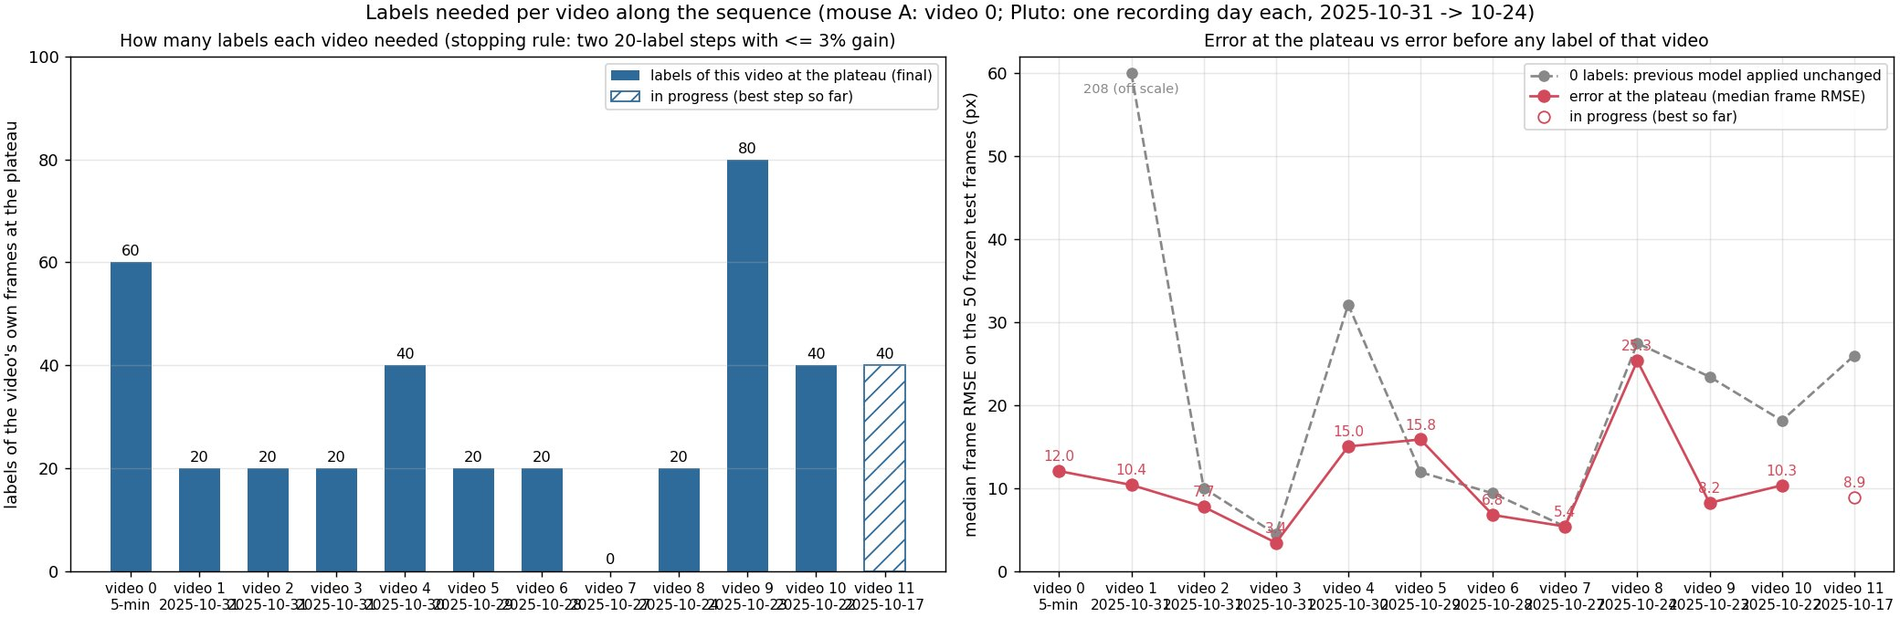
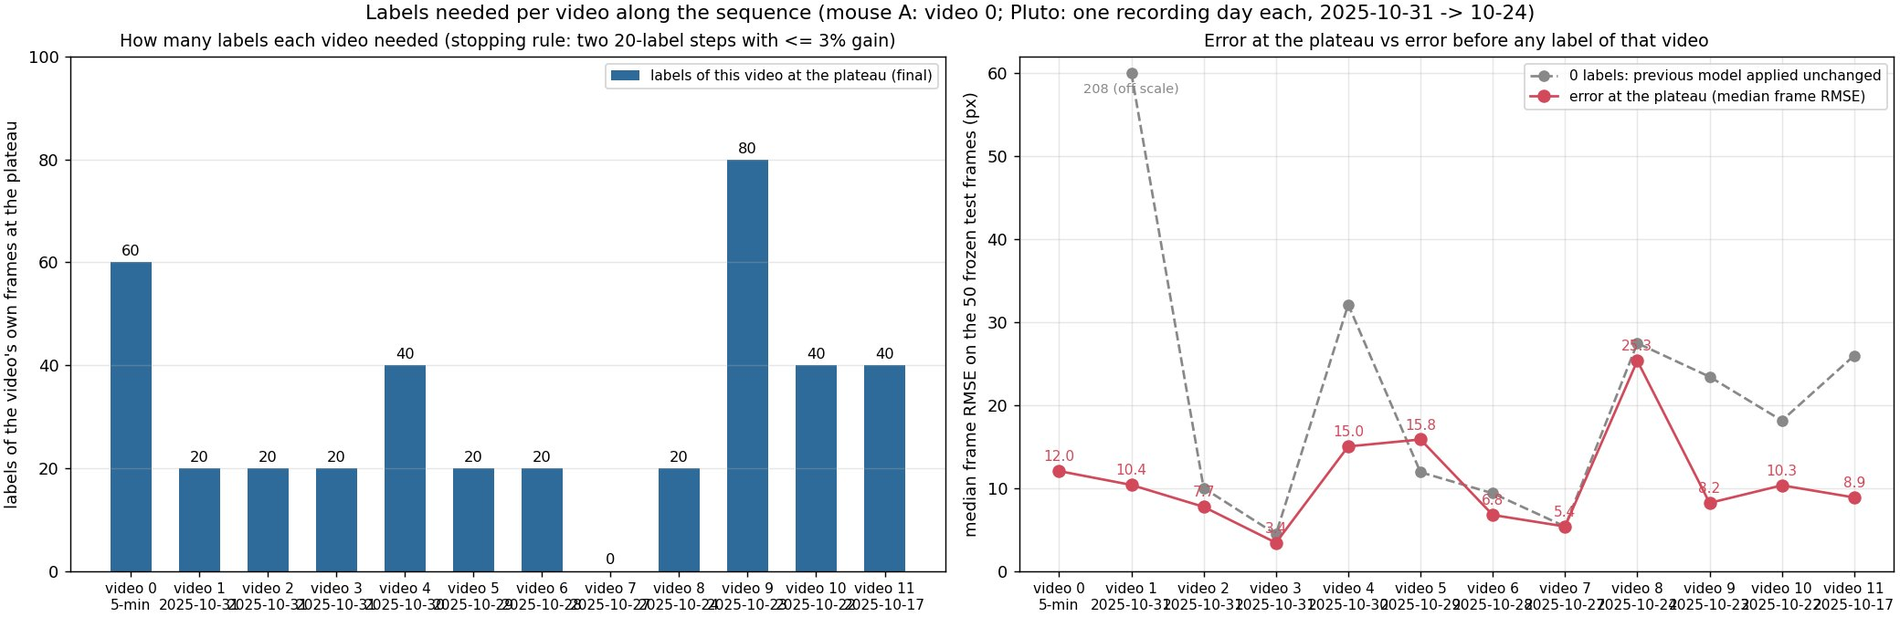
Video 11 (Terra) finished: plateau at 40 labels, 8.86 px (rule fired at 80; user decision 2026-10-04); 40 labels carried into video 12, whose test / val / batch01 frames are extracted; page step 4 ties the definitions to numbered figures
Claude-Session: https://claude.ai/code/session_017MK5SWBFFQAu8ejFk1z7fh

diff --git a/report/index.html b/report/index.html
@@ -72,7 +72,7 @@ math[display="block"]{margin:10px 0 6px;text-align:left;overflow-x:auto;max-widt
 
 <header>
   <h1><span lang="zh">小鼠眼睛关键点追踪：做了什么，结果是什么</span><span lang="en">Mouse eye keypoint tracking: what was done and what came out</span></h1>
-  <p class="muted small">Zhiheng Li (University of Minnesota), Kaiwen Sheng (Stanford) · <span lang="zh">页面生成时间</span><span lang="en">page built</span> 2026-10-04 12:38 · <a href="https://github.com/ZhihengLi0/mouse-behavior-tracking">GitHub: ZhihengLi0/mouse-behavior-tracking</a></p>
+  <p class="muted small">Zhiheng Li (University of Minnesota), Kaiwen Sheng (Stanford) · <span lang="zh">页面生成时间</span><span lang="en">page built</span> 2026-10-04 12:41 · <a href="https://github.com/ZhihengLi0/mouse-behavior-tracking">GitHub: ZhihengLi0/mouse-behavior-tracking</a></p>
 
   <div class="text" lang="zh">
     <p><b>任务：</b>用 DeepLabCut 在小鼠眼睛视频的每一帧上找 8 个点：瞳孔上、下、左、右，上眼睑、下眼睑，鼻侧眼角、颞侧眼角。由这 8 个点得到瞳孔大小、眼睛睁开程度和眨眼，之后与脑记录对齐。</p>
@@ -97,7 +97,7 @@ math[display="block"]{margin:10px 0 6px;text-align:left;overflow-x:auto;max-widt
       <li><b>加入新视频会不会让旧视频变差？</b>不会（第 7 步）。</li>
       <li><b>瞳孔面积怎么算？</b>按 9 月 20 日明确的定义，瞳孔四个点都是椭圆端点，用四个点算的面积误差约为三点法的一半（第 8 步）。</li>
     </ol>
-    <p><b>进度：</b>已完成 11 个视频（视频 0–10）；视频 11 进行中，按 0 / 20 / 40 / … 帧的误差为 25.96 / 9.24 / 8.86 / 8.77 / 8.65 px。</p>
+    <p><b>进度：</b>已完成 12 个视频（视频 0–11）。</p>
   </div>
   <div class="text" lang="en">
     <p><b>Task:</b> DeepLabCut finds 8 points on every frame of a mouse-eye video: pupil top, bottom, left, right; upper and lower eyelid; nasal and temporal eye corner. From these we get pupil size, eye opening and blinks, to be aligned with brain recordings later.</p>
@@ -122,7 +122,7 @@ math[display="block"]{margin:10px 0 6px;text-align:left;overflow-x:auto;max-widt
       <li><b>Do new videos make old ones worse?</b> No (step 7).</li>
       <li><b>How to compute the pupil area?</b> Under the definitions made explicit on 2026-09-20 all four pupil points are ellipse endpoints, and the 4-point area has about half the error of the 3-point rule (step 8).</li>
     </ol>
-    <p><b>Status:</b> 11 videos finished (videos 0–10); video 11 in progress, error at 0 / 20 / 40 / … labels: 25.96 / 9.24 / 8.86 / 8.77 / 8.65 px.</p>
+    <p><b>Status:</b> 12 videos finished (videos 0–11).</p>
   </div>
 
   <div class="text" lang="zh">
@@ -278,37 +278,37 @@ math[display="block"]{margin:10px 0 6px;text-align:left;overflow-x:auto;max-widt
   <div class="text" lang="zh">
     <p><span class="tag">做了什么：</span>把 8 个点各自标在哪里写清楚，并按新的写法把之前的视频全部重新标注。从这一步起所有模型和数字都用这套定义。完整的定义、例图和容易标错的地方在仓库的 <code>keypoint_definitions/</code> 文件夹里。</p>
     <ul>
-      <li><b>瞳孔上、下、左、右：</b>把瞳孔看作一个椭圆，四个点是椭圆两条轴的四个端点。被上眼睑或毛挡住的部分按椭圆补全，所以瞳孔上点常常落在上眼睑点的上方，也就是标在被眼睑盖住的位置上。瞳孔边界取变暗区域的外缘；边界出现两层轮廓时取左边那层（9 月 26 日）；黑色核心外面较亮的一圈也算瞳孔（9 月 29 日）。</li>
-      <li><b>上眼睑、下眼睑：</b>眼皮和眼球的分界线叫睑缘。上眼睑点是上睑缘的中点，下眼睑点是下睑缘的中点。</li>
+      <li><b>瞳孔上、下、左、右（图 4-2）：</b>把瞳孔看作一个椭圆，四个点是椭圆两条轴的四个端点。被上眼睑或毛挡住的部分按椭圆补全，所以瞳孔上点常常落在上眼睑点的上方，也就是标在被眼睑盖住的位置上。图 4-2 里红点是正确位置；黄色叉是不取的错误位置：沿着看得见的瞳孔边缘标，上点停在眼睑边上。瞳孔边界取变暗区域的外缘；边界出现两层轮廓时取左边那层（9 月 26 日）；黑色核心外面较亮的一圈也算瞳孔（9 月 29 日）。</li>
+      <li><b>上眼睑、下眼睑（图 4-1）：</b>眼皮和眼球的分界线叫睑缘。上眼睑点是上睑缘的中点，下眼睑点是下睑缘的中点。</li>
       <li><b>看不清的点：</b>所有 8 个点都一样，看得清楚就标；不能准确判断位置时，这个点留空不标。</li>
-      <li><b>左眼角（鼻侧，内眦）：</b>把左下方的睑缘和上睑缘各自延长，取两条延长线的交点；延长线取外侧、没有阴影的那条边。</li>
-      <li><b>右眼角（颞侧，外眦）：</b>右侧有几条反光亮带。把下睑缘沿外层那条线向上延伸，与上睑缘相交的点就是眼角，它在反光的右侧。不标在反光上，也不标在紧挨反光的内层线上。</li>
+      <li><b>左眼角（鼻侧，内眦；图 4-3 中间一幅）：</b>把左下方的睑缘和上睑缘各自延长（图中红色虚线），取两条延长线的交点（红圈），青色点是标注的位置。延长线取外侧、没有阴影的那条边。图中黄色叉是不取的错误位置：标在深色部分结束的地方，两条睑缘没有延长到相交。</li>
+      <li><b>右眼角（颞侧，外眦；图 4-3 右边一幅）：</b>右侧有几条反光亮带。把下睑缘沿外层那条线向上延伸（图中红色虚线），与上睑缘相交的点（红圈）就是眼角，它在反光的右侧，青色点是标注的位置。图中黄色叉是不取的错误位置：标在紧挨反光的内层线上。也不标在反光亮带上。</li>
     </ul>
   </div>
   <div class="text" lang="en">
     <p><span class="tag">What was done:</span>Where each of the 8 points is placed was written down, and all earlier videos were relabeled accordingly. From this step on every model and number uses these definitions. The full definitions, example figures and the common mistakes are in the folder <code>keypoint_definitions/</code> of the repository.</p>
     <ul>
-      <li><b>Pupil top, bottom, left, right:</b> the pupil is treated as an ellipse and the four points are the ends of its two axes. Parts hidden by the upper eyelid or by fur are completed with the ellipse, so the pupil-top point often lies above the upper-eyelid point, that is, at a position covered by the lid. The pupil boundary is the outer edge of the darkened region; where the edge looks doubled the left contour is used (2026-09-26); the brighter band around the dark core counts as pupil (2026-09-29).</li>
-      <li><b>Upper and lower eyelid:</b> the line between the eyelid skin and the eyeball is the eyelid margin. The upper-eyelid point is the midpoint of the upper margin, the lower-eyelid point the midpoint of the lower margin.</li>
+      <li><b>Pupil top, bottom, left, right (Fig. 4-2):</b> the pupil is treated as an ellipse and the four points are the ends of its two axes. Parts hidden by the upper eyelid or by fur are completed with the ellipse, so the pupil-top point often lies above the upper-eyelid point, that is, at a position covered by the lid. In Fig. 4-2 the red dots are the correct positions; the yellow crosses are the wrong placement that is not used: along the visible pupil edge, with the top point stopping at the eyelid. The pupil boundary is the outer edge of the darkened region; where the edge looks doubled the left contour is used (2026-09-26); the brighter band around the dark core counts as pupil (2026-09-29).</li>
+      <li><b>Upper and lower eyelid (Fig. 4-1):</b> the line between the eyelid skin and the eyeball is the eyelid margin. The upper-eyelid point is the midpoint of the upper margin, the lower-eyelid point the midpoint of the lower margin.</li>
       <li><b>Points that cannot be seen:</b> the same for all 8 points: a point is labeled when it can be seen clearly and left empty when its position cannot be judged accurately.</li>
-      <li><b>Left corner (nasal, medial canthus):</b> the lower-left margin and the upper margin are each continued, and the corner is where the two continuations cross; the continuation follows the outer edge, the one without the shadow.</li>
-      <li><b>Right corner (temporal, lateral canthus):</b> there are several bright reflections on this side. The lower margin is continued upwards along the outer line until it meets the upper margin; that point is the corner, and it lies to the right of the reflections. It is not placed on a reflection or on the inner line next to it.</li>
+      <li><b>Left corner (nasal, medial canthus; Fig. 4-3, middle panel):</b> the lower-left margin and the upper margin are each continued (dashed red lines) and the corner is where the two continuations cross (red circle); the cyan dot is the labeled position. The continuation follows the outer edge, the one without the shadow. The yellow cross is the wrong placement that is not used: where the dark part ends, with the two margins not continued to their crossing.</li>
+      <li><b>Right corner (temporal, lateral canthus; Fig. 4-3, right panel):</b> there are several bright reflections on this side. The lower margin is continued upwards along the outer line (dashed red line) until it meets the upper margin (red circle); that point is the corner, to the right of the reflections, and the cyan dot is the labeled position. The yellow cross is the wrong placement that is not used: on the inner line next to the reflection. The corner is not placed on a reflection either.</li>
     </ul>
   </div>
   <figure>
     <div class="figbox"><img src="assets/kp_all_keypoints.jpg" alt="All eight keypoints on three mice"></div>
-    <figcaption lang="zh"><span class="tag">怎么看：</span>三只老鼠各一帧人工标注。红点是瞳孔的四个点，红线是过这四个点的椭圆；青色点是上下眼睑和两个眼角。图像为了看清做了提亮。</figcaption>
-    <figcaption lang="en"><span class="tag">How to read:</span>One human-labeled frame of each of the three mice. Red dots are the four pupil points and the red line is the ellipse through them; cyan dots are the two eyelid points and the two corners. The frames are brightened for display.</figcaption>
+    <figcaption lang="zh"><b>图 4-1</b>　<span class="tag">怎么看：</span>三只老鼠各一帧人工标注。红点是瞳孔的四个点，红线是过这四个点的椭圆；青色点是上下眼睑和两个眼角。图像为了看清做了提亮。</figcaption>
+    <figcaption lang="en"><b>Fig. 4-1.</b> <span class="tag">How to read:</span>One human-labeled frame of each of the three mice. Red dots are the four pupil points and the red line is the ellipse through them; cyan dots are the two eyelid points and the two corners. The frames are brightened for display.</figcaption>
   </figure>
   <figure>
     <div class="figbox"><img src="assets/kp_construction_pupil.jpg" alt="How the pupil points are constructed"></div>
-    <figcaption lang="zh"><span class="tag">怎么看：</span>瞳孔四个点怎么来。红色椭圆盖住整个瞳孔，红色虚线是它的两条轴，四个点是轴的端点。黄色叉和黄色虚线是 9 月 20 日之前的标法：沿着看得见的瞳孔边缘标，上点停在眼睑边上。</figcaption>
-    <figcaption lang="en"><span class="tag">How to read:</span>How the four pupil points are obtained. The red ellipse covers the whole pupil, the dashed red lines are its two axes, and the four points are the ends of the axes. Yellow crosses and the dashed yellow outline show the placement before 2026-09-20: along the visible pupil edge, with the top point stopping at the eyelid.</figcaption>
+    <figcaption lang="zh"><b>图 4-2</b>　<span class="tag">怎么看：</span>瞳孔四个点怎么来。红色椭圆盖住整个瞳孔，红色虚线是它的两条轴，四个点是轴的端点。黄色叉和黄色虚线是 9 月 20 日之前的标法：沿着看得见的瞳孔边缘标，上点停在眼睑边上。</figcaption>
+    <figcaption lang="en"><b>Fig. 4-2.</b> <span class="tag">How to read:</span>How the four pupil points are obtained. The red ellipse covers the whole pupil, the dashed red lines are its two axes, and the four points are the ends of the axes. Yellow crosses and the dashed yellow outline show the placement before 2026-09-20: along the visible pupil edge, with the top point stopping at the eyelid.</figcaption>
   </figure>
   <figure>
     <div class="figbox"><img src="assets/kp_construction_corners.jpg" alt="How the two corners are constructed"></div>
-    <figcaption lang="zh"><span class="tag">怎么看：</span>两个眼角怎么来，画法照 9 月 20 日讨论时的手绘图。红色实线是沿图像描出的睑缘，红色虚线是它的延长线，红圈是交点，也就是眼角；青色点是实际标注的位置。黄色叉是当天第一次的标法，也是容易标错的位置：左边标在深色部分结束的地方，右边标在紧挨反光的内层线上。</figcaption>
-    <figcaption lang="en"><span class="tag">How to read:</span>How the two corners are obtained, drawn after the hand sketch used in the discussion of 2026-09-20. Solid red = eyelid margin traced on the image, dashed red = its continuation, red circle = the crossing, which is the corner; cyan = the labeled point. Yellow crosses are the first placement of that day and the easy mistake: on the left, where the dark part ends; on the right, on the inner line next to the reflection.</figcaption>
+    <figcaption lang="zh"><b>图 4-3</b>　<span class="tag">怎么看：</span>两个眼角怎么来，画法照 9 月 20 日讨论时的手绘图。红色实线是沿图像描出的睑缘，红色虚线是它的延长线，红圈是交点，也就是眼角；青色点是实际标注的位置。黄色叉是当天第一次的标法，也是容易标错的位置：左边标在深色部分结束的地方，右边标在紧挨反光的内层线上。</figcaption>
+    <figcaption lang="en"><b>Fig. 4-3.</b> <span class="tag">How to read:</span>How the two corners are obtained, drawn after the hand sketch used in the discussion of 2026-09-20. Solid red = eyelid margin traced on the image, dashed red = its continuation, red circle = the crossing, which is the corner; cyan = the labeled point. Yellow crosses are the first placement of that day and the easy mistake: on the left, where the dark part ends; on the right, on the inner line next to the reflection.</figcaption>
   </figure>
   <p class="text" lang="zh">定义明确前后，同一批帧上各个点移动了多少（<code>keypoint_definitions/results/label_changes.csv</code>）：</p>
   <p class="text" lang="en">How far each point moved on the same frames when the definitions were made explicit (<code>keypoint_definitions/results/label_changes.csv</code>):</p>
@@ -413,7 +413,7 @@ math[display="block"]{margin:10px 0 6px;text-align:left;overflow-x:auto;max-widt
 <tr><td>8</td><td>Pluto<br>2025-10-24</td><td>400</td><td>27.46 / 25.34 / 30.03 / 33.77</td><td><span lang="zh"><b>20 帧，25.34 px</b></span><span lang="en"><b>20 labels, 25.34 px</b></span></td><td>60</td><td>20</td></tr>
 <tr><td>9</td><td>Pluto<br>2025-10-23</td><td>420</td><td>23.41 / 10.39 / 8.55 / 8.67 / 8.20 / 9.39 / 8.63</td><td><span lang="zh"><b>80 帧，8.20 px</b></span><span lang="en"><b>80 labels, 8.20 px</b></span></td><td>120</td><td>80</td></tr>
 <tr><td>10</td><td>Pluto<br>2025-10-22</td><td>500</td><td>18.13 / 11.83 / 10.32 / 10.49 / 10.76</td><td><span lang="zh"><b>40 帧，10.32 px</b></span><span lang="en"><b>40 labels, 10.32 px</b></span></td><td>80</td><td>40</td></tr>
-<tr><td>11</td><td>Terra<br>2025-10-17</td><td>540</td><td>25.96 / 9.24 / 8.86 / 8.77 / 8.65</td><td><span lang="zh">进行中（目前最好：40 帧，8.86 px）</span><span lang="en">in progress (best so far: 40 labels, 8.86 px)</span></td><td>80</td><td>–</td></tr>
+<tr><td>11</td><td>Terra<br>2025-10-17</td><td>540</td><td>25.96 / 9.24 / 8.86 / 8.77 / 8.65</td><td><span lang="zh"><b>40 帧，8.86 px</b></span><span lang="en"><b>40 labels, 8.86 px</b></span></td><td>80</td><td>40</td></tr>
       </tbody>
     </table>
   </div>

diff --git a/report/template.html b/report/template.html
@@ -278,37 +278,37 @@ math[display="block"]{margin:10px 0 6px;text-align:left;overflow-x:auto;max-widt
   <div class="text" lang="zh">
     <p><span class="tag">做了什么：</span>把 8 个点各自标在哪里写清楚，并按新的写法把之前的视频全部重新标注。从这一步起所有模型和数字都用这套定义。完整的定义、例图和容易标错的地方在仓库的 <code>keypoint_definitions/</code> 文件夹里。</p>
     <ul>
-      <li><b>瞳孔上、下、左、右：</b>把瞳孔看作一个椭圆，四个点是椭圆两条轴的四个端点。被上眼睑或毛挡住的部分按椭圆补全，所以瞳孔上点常常落在上眼睑点的上方，也就是标在被眼睑盖住的位置上。瞳孔边界取变暗区域的外缘；边界出现两层轮廓时取左边那层（9 月 26 日）；黑色核心外面较亮的一圈也算瞳孔（9 月 29 日）。</li>
-      <li><b>上眼睑、下眼睑：</b>眼皮和眼球的分界线叫睑缘。上眼睑点是上睑缘的中点，下眼睑点是下睑缘的中点。</li>
+      <li><b>瞳孔上、下、左、右（图 4-2）：</b>把瞳孔看作一个椭圆，四个点是椭圆两条轴的四个端点。被上眼睑或毛挡住的部分按椭圆补全，所以瞳孔上点常常落在上眼睑点的上方，也就是标在被眼睑盖住的位置上。图 4-2 里红点是正确位置；黄色叉是不取的错误位置：沿着看得见的瞳孔边缘标，上点停在眼睑边上。瞳孔边界取变暗区域的外缘；边界出现两层轮廓时取左边那层（9 月 26 日）；黑色核心外面较亮的一圈也算瞳孔（9 月 29 日）。</li>
+      <li><b>上眼睑、下眼睑（图 4-1）：</b>眼皮和眼球的分界线叫睑缘。上眼睑点是上睑缘的中点，下眼睑点是下睑缘的中点。</li>
       <li><b>看不清的点：</b>所有 8 个点都一样，看得清楚就标；不能准确判断位置时，这个点留空不标。</li>
-      <li><b>左眼角（鼻侧，内眦）：</b>把左下方的睑缘和上睑缘各自延长，取两条延长线的交点；延长线取外侧、没有阴影的那条边。</li>
-      <li><b>右眼角（颞侧，外眦）：</b>右侧有几条反光亮带。把下睑缘沿外层那条线向上延伸，与上睑缘相交的点就是眼角，它在反光的右侧。不标在反光上，也不标在紧挨反光的内层线上。</li>
+      <li><b>左眼角（鼻侧，内眦；图 4-3 中间一幅）：</b>把左下方的睑缘和上睑缘各自延长（图中红色虚线），取两条延长线的交点（红圈），青色点是标注的位置。延长线取外侧、没有阴影的那条边。图中黄色叉是不取的错误位置：标在深色部分结束的地方，两条睑缘没有延长到相交。</li>
+      <li><b>右眼角（颞侧，外眦；图 4-3 右边一幅）：</b>右侧有几条反光亮带。把下睑缘沿外层那条线向上延伸（图中红色虚线），与上睑缘相交的点（红圈）就是眼角，它在反光的右侧，青色点是标注的位置。图中黄色叉是不取的错误位置：标在紧挨反光的内层线上。也不标在反光亮带上。</li>
     </ul>
   </div>
   <div class="text" lang="en">
     <p><span class="tag">What was done:</span>Where each of the 8 points is placed was written down, and all earlier videos were relabeled accordingly. From this step on every model and number uses these definitions. The full definitions, example figures and the common mistakes are in the folder <code>keypoint_definitions/</code> of the repository.</p>
     <ul>
-      <li><b>Pupil top, bottom, left, right:</b> the pupil is treated as an ellipse and the four points are the ends of its two axes. Parts hidden by the upper eyelid or by fur are completed with the ellipse, so the pupil-top point often lies above the upper-eyelid point, that is, at a position covered by the lid. The pupil boundary is the outer edge of the darkened region; where the edge looks doubled the left contour is used (2026-09-26); the brighter band around the dark core counts as pupil (2026-09-29).</li>
-      <li><b>Upper and lower eyelid:</b> the line between the eyelid skin and the eyeball is the eyelid margin. The upper-eyelid point is the midpoint of the upper margin, the lower-eyelid point the midpoint of the lower margin.</li>
+      <li><b>Pupil top, bottom, left, right (Fig. 4-2):</b> the pupil is treated as an ellipse and the four points are the ends of its two axes. Parts hidden by the upper eyelid or by fur are completed with the ellipse, so the pupil-top point often lies above the upper-eyelid point, that is, at a position covered by the lid. In Fig. 4-2 the red dots are the correct positions; the yellow crosses are the wrong placement that is not used: along the visible pupil edge, with the top point stopping at the eyelid. The pupil boundary is the outer edge of the darkened region; where the edge looks doubled the left contour is used (2026-09-26); the brighter band around the dark core counts as pupil (2026-09-29).</li>
+      <li><b>Upper and lower eyelid (Fig. 4-1):</b> the line between the eyelid skin and the eyeball is the eyelid margin. The upper-eyelid point is the midpoint of the upper margin, the lower-eyelid point the midpoint of the lower margin.</li>
       <li><b>Points that cannot be seen:</b> the same for all 8 points: a point is labeled when it can be seen clearly and left empty when its position cannot be judged accurately.</li>
-      <li><b>Left corner (nasal, medial canthus):</b> the lower-left margin and the upper margin are each continued, and the corner is where the two continuations cross; the continuation follows the outer edge, the one without the shadow.</li>
-      <li><b>Right corner (temporal, lateral canthus):</b> there are several bright reflections on this side. The lower margin is continued upwards along the outer line until it meets the upper margin; that point is the corner, and it lies to the right of the reflections. It is not placed on a reflection or on the inner line next to it.</li>
+      <li><b>Left corner (nasal, medial canthus; Fig. 4-3, middle panel):</b> the lower-left margin and the upper margin are each continued (dashed red lines) and the corner is where the two continuations cross (red circle); the cyan dot is the labeled position. The continuation follows the outer edge, the one without the shadow. The yellow cross is the wrong placement that is not used: where the dark part ends, with the two margins not continued to their crossing.</li>
+      <li><b>Right corner (temporal, lateral canthus; Fig. 4-3, right panel):</b> there are several bright reflections on this side. The lower margin is continued upwards along the outer line (dashed red line) until it meets the upper margin (red circle); that point is the corner, to the right of the reflections, and the cyan dot is the labeled position. The yellow cross is the wrong placement that is not used: on the inner line next to the reflection. The corner is not placed on a reflection either.</li>
     </ul>
   </div>
   <figure>
     <div class="figbox"><img src="assets/kp_all_keypoints.jpg" alt="All eight keypoints on three mice"></div>
-    <figcaption lang="zh"><span class="tag">怎么看：</span>三只老鼠各一帧人工标注。红点是瞳孔的四个点，红线是过这四个点的椭圆；青色点是上下眼睑和两个眼角。图像为了看清做了提亮。</figcaption>
-    <figcaption lang="en"><span class="tag">How to read:</span>One human-labeled frame of each of the three mice. Red dots are the four pupil points and the red line is the ellipse through them; cyan dots are the two eyelid points and the two corners. The frames are brightened for display.</figcaption>
+    <figcaption lang="zh"><b>图 4-1</b>　<span class="tag">怎么看：</span>三只老鼠各一帧人工标注。红点是瞳孔的四个点，红线是过这四个点的椭圆；青色点是上下眼睑和两个眼角。图像为了看清做了提亮。</figcaption>
+    <figcaption lang="en"><b>Fig. 4-1.</b> <span class="tag">How to read:</span>One human-labeled frame of each of the three mice. Red dots are the four pupil points and the red line is the ellipse through them; cyan dots are the two eyelid points and the two corners. The frames are brightened for display.</figcaption>
   </figure>
   <figure>
     <div class="figbox"><img src="assets/kp_construction_pupil.jpg" alt="How the pupil points are constructed"></div>
-    <figcaption lang="zh"><span class="tag">怎么看：</span>瞳孔四个点怎么来。红色椭圆盖住整个瞳孔，红色虚线是它的两条轴，四个点是轴的端点。黄色叉和黄色虚线是 9 月 20 日之前的标法：沿着看得见的瞳孔边缘标，上点停在眼睑边上。</figcaption>
-    <figcaption lang="en"><span class="tag">How to read:</span>How the four pupil points are obtained. The red ellipse covers the whole pupil, the dashed red lines are its two axes, and the four points are the ends of the axes. Yellow crosses and the dashed yellow outline show the placement before 2026-09-20: along the visible pupil edge, with the top point stopping at the eyelid.</figcaption>
+    <figcaption lang="zh"><b>图 4-2</b>　<span class="tag">怎么看：</span>瞳孔四个点怎么来。红色椭圆盖住整个瞳孔，红色虚线是它的两条轴，四个点是轴的端点。黄色叉和黄色虚线是 9 月 20 日之前的标法：沿着看得见的瞳孔边缘标，上点停在眼睑边上。</figcaption>
+    <figcaption lang="en"><b>Fig. 4-2.</b> <span class="tag">How to read:</span>How the four pupil points are obtained. The red ellipse covers the whole pupil, the dashed red lines are its two axes, and the four points are the ends of the axes. Yellow crosses and the dashed yellow outline show the placement before 2026-09-20: along the visible pupil edge, with the top point stopping at the eyelid.</figcaption>
   </figure>
   <figure>
     <div class="figbox"><img src="assets/kp_construction_corners.jpg" alt="How the two corners are constructed"></div>
-    <figcaption lang="zh"><span class="tag">怎么看：</span>两个眼角怎么来，画法照 9 月 20 日讨论时的手绘图。红色实线是沿图像描出的睑缘，红色虚线是它的延长线，红圈是交点，也就是眼角；青色点是实际标注的位置。黄色叉是当天第一次的标法，也是容易标错的位置：左边标在深色部分结束的地方，右边标在紧挨反光的内层线上。</figcaption>
-    <figcaption lang="en"><span class="tag">How to read:</span>How the two corners are obtained, drawn after the hand sketch used in the discussion of 2026-09-20. Solid red = eyelid margin traced on the image, dashed red = its continuation, red circle = the crossing, which is the corner; cyan = the labeled point. Yellow crosses are the first placement of that day and the easy mistake: on the left, where the dark part ends; on the right, on the inner line next to the reflection.</figcaption>
+    <figcaption lang="zh"><b>图 4-3</b>　<span class="tag">怎么看：</span>两个眼角怎么来，画法照 9 月 20 日讨论时的手绘图。红色实线是沿图像描出的睑缘，红色虚线是它的延长线，红圈是交点，也就是眼角；青色点是实际标注的位置。黄色叉是当天第一次的标法，也是容易标错的位置：左边标在深色部分结束的地方，右边标在紧挨反光的内层线上。</figcaption>
+    <figcaption lang="en"><b>Fig. 4-3.</b> <span class="tag">How to read:</span>How the two corners are obtained, drawn after the hand sketch used in the discussion of 2026-09-20. Solid red = eyelid margin traced on the image, dashed red = its continuation, red circle = the crossing, which is the corner; cyan = the labeled point. Yellow crosses are the first placement of that day and the easy mistake: on the left, where the dark part ends; on the right, on the inner line next to the reflection.</figcaption>
   </figure>
   <p class="text" lang="zh">定义明确前后，同一批帧上各个点移动了多少（<code>keypoint_definitions/results/label_changes.csv</code>）：</p>
   <p class="text" lang="en">How far each point moved on the same frames when the definitions were made explicit (<code>keypoint_definitions/results/label_changes.csv</code>):</p>

diff --git a/README.md b/README.md
@@ -8,7 +8,7 @@ how many human labels are needed, and how few frames must a person correct, befo
 Zhiheng Li (University of Minnesota), with Kaiwen Sheng (Stanford). Raw videos, frames, labels, model weights and
 per-frame predictions stay local; git carries code, documentation and audited aggregate results.
 
-## Status (last updated 2026-10-04 12:30 CDT)
+## Status (last updated 2026-10-04 13:10 CDT)
 
 | what | state |
 |---|---|
@@ -24,8 +24,9 @@ per-frame predictions stay local; git carries code, documentation and audited ag
 | Finished | **video 9** (Pluto, 2025-10-23, v2 line): test50 / val20 / batch01 labeled from model-711 pre-labels; 0 labels (model 711) = 23.41 px, 20 labels = 10.39 px, 40 labels = 8.55 px, 60 labels = 8.67 px (p90 14.8; no gain on the median), 80 labels = 8.20 px (p90 14.8; 4.1% better than 8.55), 100 labels = 9.39 px (p90 15.5), 120 labels = 8.63 px (p90 15.8): the plateau rule fired at 120 (two steps without a gain on 8.20), finished at **80 labels, 8.20 px** (user decision 2026-10-01). Cross-video curves now also show the 5 / 10-label subset models (open markers) |
 | Blink / area analysis | per-video time series in `<video>/results/blink_area_analysis/`; across videos (`v2_new_pupil_top_video_scaling/results/blink_area_consistency.png`): 4-point area better on 7 of 8 test sets; lowest pupil confidence < ~0.2 separates all 16 human closed-eye frames (the production 0.6 cut flags ~half of open frames); area correlates with eye opening in every video |
 | Finished | **video 10** (Pluto, 2025-10-22, the last Pluto video of the sequence): test50 / val20 / batch01 pre-labeled with the video-9 80-label model (1014) and corrected by the labeler (test50: 234 of 400 points moved), test set frozen; 0 labels (model 1014) = 18.13 px (p90 32.0, 8% of frames > 50 px), 20 labels = 11.83 px (p90 27.7, 2% > 50 px), 40 labels = 10.32 px (p90 26.1, 92% of keypoints with confidence >= 0.6), 60 labels = 10.49 px (p90 27.2, 8% > 50 px; no gain over 10.32), 80 labels = 10.76 px (p90 188.7, 12% > 50 px; no gain): the plateau rule fired at 80 (two steps without a gain on 10.32), finished at **40 labels, 10.32 px** (user decision 2026-10-03) |
-| In progress | **video 11** (Terra = mouse C, 2025-10-17, the first video of a new mouse): test50 / val20 / batch01 pre-labeled with the video-10 40-label model (1112) and corrected by the labeler (test50: 249 of 400 points moved), test set frozen; 0 labels (model 1112) = 25.96 px (p90 80.1, 16% of frames > 50 px), 20 labels = 9.24 px (p90 166.4, 20% of frames > 50 px), 40 labels = 8.86 px (p90 17.5, 4% of frames > 50 px, 94% of keypoints with confidence >= 0.6; 4.1% better on the median), 60 labels = 8.77 px (p90 12.9, 2% of frames > 50 px, 97% confidence; 1.0% better than 8.86, a flat step), 80 labels = 8.65 px (p90 13.1, 2% > 50 px, 98% confidence; 1.4% better, a second flat step): the plateau rule fired at 80; plateau point 40 labels, 8.86 px; awaiting user decision. Training set of every step = 540 carried labels of videos 0-10 + this video's labels; shuffles 1211, 1212, ... |
-| Next | Terra units 12-18, one recording day each, newest first |
+| Finished | **video 11** (Terra = mouse C, 2025-10-17, the first video of a new mouse): test50 / val20 / batch01 pre-labeled with the video-10 40-label model (1112) and corrected by the labeler (test50: 249 of 400 points moved), test set frozen; 0 labels (model 1112) = 25.96 px (p90 80.1, 16% of frames > 50 px), 20 labels = 9.24 px (p90 166.4, 20% of frames > 50 px), 40 labels = 8.86 px (p90 17.5, 4% of frames > 50 px, 94% of keypoints with confidence >= 0.6; 4.1% better on the median), 60 labels = 8.77 px (p90 12.9, 2% of frames > 50 px, 97% confidence; 1.0% better than 8.86, a flat step), 80 labels = 8.65 px (p90 13.1, 2% > 50 px, 98% confidence; 1.4% better, a second flat step): the plateau rule fired at 80, finished at **40 labels, 8.86 px** (user decision 2026-10-04). Training set of every step = 540 carried labels of videos 0-10 + this video's labels; shuffles 1211, 1212, ... |
+| In progress | **video 12** (Terra, 2025-10-16): test50 / val20 / batch01 extracted and pre-labeled with the video-11 40-label model (1212); test set being labeled. Training set of every step = 580 carried labels of videos 0-11 + this video's labels; shuffles 1311, 1312, ... |
+| Next | Terra units 13-18, one recording day each, newest first |
 
 ## Main results so far (era 3, `v2_new_pupil_top_video_scaling/`)
 
@@ -44,7 +45,8 @@ Labels needed per video (plateau = two consecutive 20-label steps that improve t
 | 8 | Pluto, 2025-10-24 | 400 | 27.46 / 25.34 / 30.03 / 33.77 px (v2) | 20 labels, 25.3 px (rule fired at 60) |
 | 9 | Pluto, 2025-10-23 | 420 | 23.41 / 10.39 / 8.55 / 8.67 / 8.20 / 9.39 px, 120 labels: 8.63 px (v2) | 80 labels, 8.2 px (rule fired at 120) |
 | 10 | Pluto, 2025-10-22 | 500 | 18.13 / 11.83 / 10.32 / 10.49 / 10.76 px (v2) | 40 labels, 10.3 px (rule fired at 80) |
-| 11 | Terra (mouse C), 2025-10-17 | 540 | 25.96 / 9.24 / 8.86 / 8.77 / 8.65 px (v2; rule fired at 80, awaiting user decision) | – |
+| 11 | Terra (mouse C), 2025-10-17 | 540 | 25.96 / 9.24 / 8.86 / 8.77 / 8.65 px (v2) | 40 labels, 8.9 px (rule fired at 80) |
+| 12 | Terra (mouse C), 2025-10-16 | 580 | (v2, in progress) | – |
 
 What the numbers say:
 
@@ -117,6 +119,7 @@ comparison between later videos is not affected.
 | 8 | 60 | 20 | 20 |
 | 9 | 120 | 80 | 80 |
 | 10 | 80 | 40 | 40 |
+| 11 | 80 | 40 | 40 |
 
 Every number in a README comes from one script with one formula; if a definition changes, the whole series is
 recomputed rather than mixed.

diff --git a/v2_new_pupil_top_video_scaling/results/README.md b/v2_new_pupil_top_video_scaling/results/README.md
@@ -23,7 +23,8 @@ snapshot with the best validation mAP after the first learning-rate drop (epochs
 | 8 `8_20251024_Pluto_spont1` | mouse B, 19.9 min, 2025-10-24 | 400 (videos 0-3 + 40 of video 4 + 20 of video 5 + 20 of video 6) | convention v2: 27.46 / 25.34 / 30.03 / 33.77 | **20 labels** (rule fired at 60; user decision 2026-09-30) | 25.34 px |
 | 9 `9_20251023_Pluto1` | mouse B, 19.9 min, 2025-10-23 | 420 (videos 0-3 + 40 of video 4 + 20 each of videos 5, 6, 8) | convention v2: 23.41 / 10.39 / 8.55 / 8.67 / 8.20 / 9.39 / 8.63 (120 labels) | **80 labels** (rule fired at 120; user decision 2026-10-01) | 8.20 px |
 | 10 `10_20251022_Pluto1` | mouse B, 19.9 min, 2025-10-22 | 500 (videos 0-3 + 40 of video 4 + 20 each of videos 5, 6, 8 + 80 of video 9) | convention v2: 18.13 / 11.83 / 10.32 / 10.49 / 10.76 | **40 labels** (rule fired at 80; user decision 2026-10-03) | 10.32 px |
-| 11 `11_20251017_Terra_spont_1` | mouse C (Terra), 19.9 min, 2025-10-17 | 540 (videos 0-3 + 40 of video 4 + 20 each of videos 5, 6, 8 + 80 of video 9 + 40 of video 10) | convention v2: 25.96 / 9.24 / 8.86 / 8.77 / 8.65 | rule fired at 80 (steps 3 and 4 improved the running best by 1.0% and 1.4% only); plateau point 40 labels; awaiting user decision | – |
+| 11 `11_20251017_Terra_spont_1` | mouse C (Terra), 19.9 min, 2025-10-17 | 540 (videos 0-3 + 40 of video 4 + 20 each of videos 5, 6, 8 + 80 of video 9 + 40 of video 10) | convention v2: 25.96 / 9.24 / 8.86 / 8.77 / 8.65 | **40 labels** (rule fired at 80; user decision 2026-10-04) | 8.86 px |
+| 12 `12_20251016_Terra_spont_2` | mouse C (Terra), 19.9 min, 2025-10-16 | 580 (as for video 11 + 40 of video 11) | convention v2: test set being labeled | in progress | – |
 
 `labels_to_plateau.png` / `labels_to_plateau.csv` (2026-09-30): the plateau point of every video in the sequence as one figure - labels needed (left) and the error at the plateau vs the 0-label error (right); `scripts/plot_labels_to_plateau.py`. The csv is the table above in machine-readable form and is updated when a video finishes.
 
@@ -60,8 +61,9 @@ comparison between later videos is not affected.
 | 8 | 60 | 20 | 20 |
 | 9 | 120 | 80 | 80 |
 | 10 | 80 | 40 | 40 |
+| 11 | 80 | 40 | 40 |
 
-Sum carried into video 9: 420 labels; into video 10: 500 labels; into video 11: 540 labels (the "labels of earlier videos" column of the table at the top).
+Sum carried into video 9: 420 labels; into video 10: 500 labels; into video 11: 540 labels; into video 12: 580 labels (the "labels of earlier videos" column of the table at the top).
 
 ## Cross-video back-test (2026-09-23)
 

diff --git a/CHANGELOG.md b/CHANGELOG.md
@@ -15,6 +15,7 @@ Important changes (a video finished, a protocol or label-convention change, a ne
 
 | tag | date | what it marks |
 |---|---|---|
+| `v0.9.13-video11-plateau` | 2026-10-04 | Video 11 (Terra = mouse C, 2025-10-17, first video of a new mouse) finished: plateau at 40 labels, 8.86 px (0 / 20 / 40 / 60 / 80 = 25.96 / 9.24 / 8.86 / 8.77 / 8.65 px; rule fired at 80); 40 labels carried into video 12 (580 in total); fewer-labels study complete for videos 0-11; `keypoint_definitions/` added; summary page reduced to 9 steps with basic information and metric formulas |
 | `v0.9.12-video10-plateau` | 2026-10-03 | Video 10 (2025-10-22, v2 line, last Pluto video) finished: plateau at 40 labels, 10.32 px (0 / 20 / 40 / 60 / 80 = 18.13 / 11.83 / 10.32 / 10.49 / 10.76 px; rule fired at 80); 40 labels carried into video 11 (540 in total); fewer-labels study extended to videos 6, 8, 9, 10; summary page (`report/`) rewritten as a plain step-by-step record |
 | `v0.9.11-video9-plateau` | 2026-10-01 | Video 9 (2025-10-23, v2 line) finished: plateau at 80 labels, 8.20 px (0 / 20 / 40 / 60 / 80 / 100 / 120 = 23.41 / 10.39 / 8.55 / 8.67 / 8.20 / 9.39 / 8.63 px; rule fired at 120); 80 labels carried into video 10; summary page (`report/`) extended to era 3 |
 | `v0.9.10-carry-rule` | 2026-10-01 | Rule fixed for which labels of a finished video go into later training sets: only the labels up to the plateau point (in force since video 4; videos 0-3 carry the 320 labels that existed when the next video started); documented in the READMEs with the per-video table |

diff --git a/v2_new_pupil_top_video_scaling/11_20251017_Terra_spont_1/results/README.md b/v2_new_pupil_top_video_scaling/11_20251017_Terra_spont_1/results/README.md
@@ -15,7 +15,9 @@ batch01: 99 of 160), then the test set was frozen. Training set of every step = 
 | 60 (shuffle 1213) | 8.77 px | 12.9 | 2% | 97% | 3350 of 57158 (5.9%) |
 | 80 (shuffle 1214) | 8.65 px | 13.1 | 2% | 98% | pending |
 
-The plateau rule fired at 80 labels: steps 3 and 4 (8.77, 8.65 px) each improved the running best by less than 3% (1.0% and 1.4%). Plateau point: 40 labels, 8.86 px; awaiting user decision (2026-10-04).
+The plateau rule fired at 80 labels: steps 3 and 4 (8.77, 8.65 px) each improved the running best by less than 3% (1.0% and 1.4%). 
+
+**Finished at 40 labels, 8.86 px (user decision 2026-10-04).** Batches 01-02 (40 labels) are carried into later videos; batches 03-04 stay on disk and are not used by later videos.
 
 Back-test of the earlier models on this test set (`../results/cross_video_matrix.csv`): the models of the sequence
 score between 16.5 and 313 px; the other models of video 10 (20 / 60 / 80 labels) give 16.54 / 29.18 / 33.41 px, so
